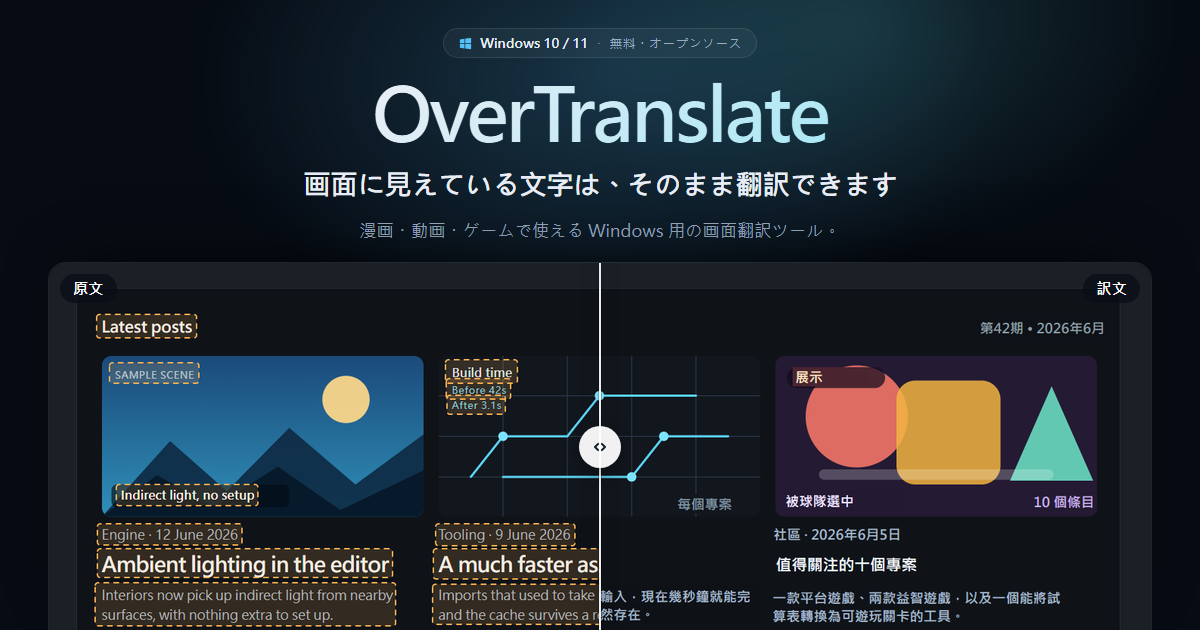
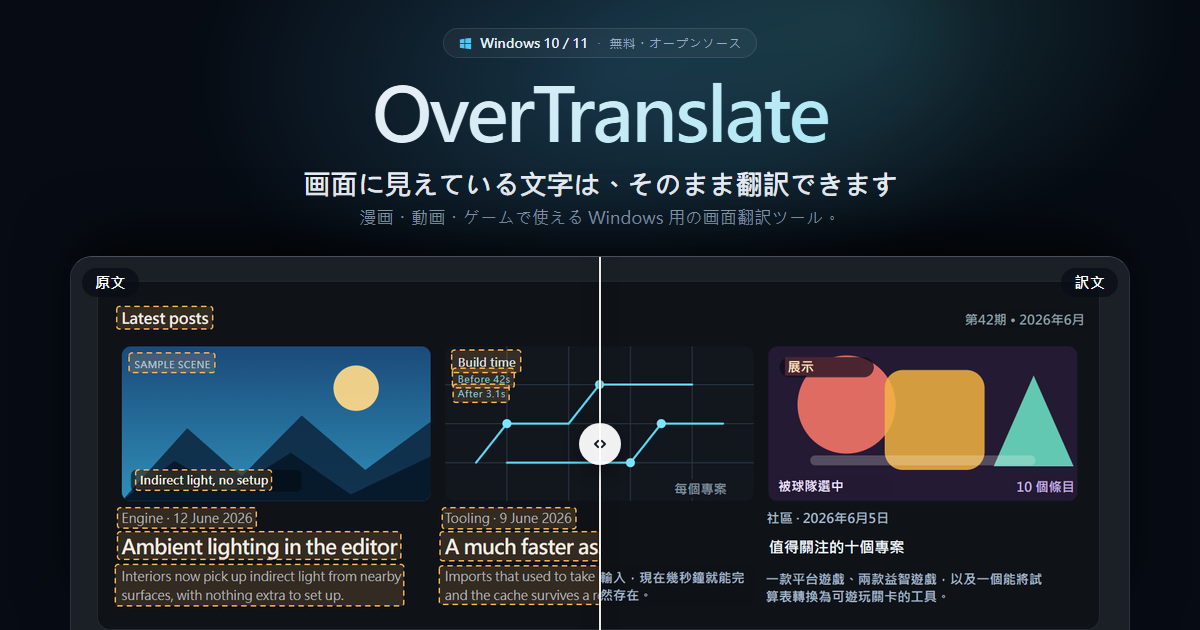
feat: 縮圖對照卡片補上光暈與亮邊，位置與留白重排

diff --git a/tools/build-og.py b/tools/build-og.py
@@ -63,8 +63,9 @@ LEDE = {
     'ko':      u'만화·영상·게임에 쓸 수 있는 Windows 화면 번역 도구.',
 }
 
-# 對照區在縮圖上的可用範圍。寬度一定用滿，高度是上限，超過就從底部切掉
-SHOT_W, SHOT_MAX_H = 1104, 368
+# 對照區在縮圖上的尺寸。高度是上限，超過就從底部切掉 ——
+# 原圖上緣的留白要留著給「原文／譯文」標籤站，不能從那邊切
+SHOT_W, SHOT_MAX_H = 1060, 374
 
 TEMPLATE = u'''<!doctype html>
 <meta charset="utf-8">
@@ -106,15 +107,27 @@ TEMPLATE = u'''<!doctype html>
     letter-spacing: -0.018em; color: #e9eef6;
   }}
   .lede {{
-    /* 網站 .hero__lede 在 1200px 寬時的實際值 */
-    margin-top: 12px; font-size: 17.28px; line-height: 1.75; color: #9aabc0;
+    /* 字級照網站 .hero__lede，但行高與間距收緊 —— 這裡只有一行，
+       留網站那種給多行段落用的鬆度會顯得散 */
+    margin-top: 2px; font-size: 17.28px; line-height: 1.5; color: #9aabc0;
+  }}
+  /* 卡片後面補一圈光暈：陰影打在純黑底上等於沒打，
+     要有東西襯著，邊緣和陰影才浮得起來 */
+  .halo {{
+    position: absolute; left: 50%; translate: -50% 0; bottom: -90px;
+    width: 1180px; height: 460px; border-radius: 50%;
+    background: radial-gradient(50% 50% at 50% 50%,
+      rgba(82, 196, 250, 0.20), rgba(82, 196, 250, 0.06) 55%, transparent 72%);
+    filter: blur(26px);
   }}
   .shot {{
     position: absolute; left: 50%; translate: -50% 0; bottom: 0;
     width: {shot_w}px; height: {shot_h}px;
-    border: 1px solid rgba(255, 255, 255, 0.10); border-bottom: 0;
-    border-radius: 18px 18px 0 0; overflow: hidden;
-    box-shadow: 0 -20px 60px -30px rgba(0, 0, 0, 0.9);
+    border: 1px solid rgba(255, 255, 255, 0.14);
+    border-top-color: rgba(255, 255, 255, 0.26); border-bottom: 0;
+    border-radius: 22px 22px 0 0; overflow: hidden; background: #0b1220;
+    box-shadow: 0 -26px 60px -10px rgba(0, 0, 0, 0.85),
+                inset 0 1px 0 rgba(255, 255, 255, 0.08);
   }}
   .shot img {{ display: block; width: {shot_w}px; height: {shot_h}px; }}
   /* 以下三個都照抄網站的 .compare__handle / .compare__grip / .compare__tag */
@@ -155,6 +168,7 @@ TEMPLATE = u'''<!doctype html>
   <p class="claim">{claim}</p>
   <p class="lede">{lede}</p>
 </div>
+<div class="halo"></div>
 <div class="shot">
   <img src="file:///{shot}" alt="">
   <span class="tag tag--before">{tag_before}</span>

diff --git a/docs/site/README.md b/docs/site/README.md
@@ -50,7 +50,7 @@ python tools/build-og.py
 
 **兩張要裁成一模一樣的範圍**，中間那條分割線才對得起來；尺寸不同產生器會擋下來。
 四個角記得留一點空白，「原文／譯文」的標籤要放在那裡。
-寬度會縮到 1104，高度照比例走，超過 368 就從底部切掉。
+寬度會縮到 1060，高度照比例走，超過 374 就從底部切掉。
 
 | 縮圖上的字 | 來源 |
 |------------|------|
